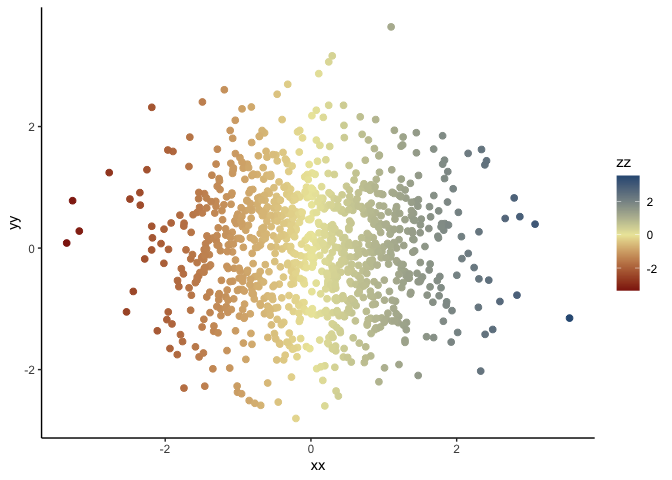
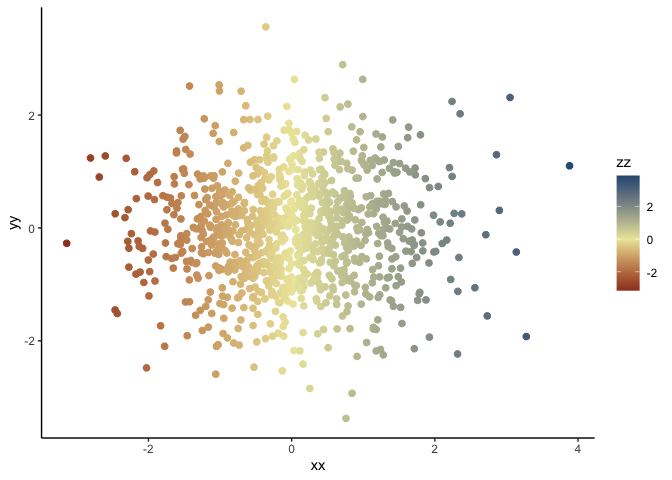
Update README for 0.0.5

diff --git a/README.md b/README.md
@@ -1,11 +1,5 @@
 # Bird Color Palettes (made with 100% REAL birds!)
 
-<figure>
-<img src="https://img.shields.io/badge/devel-0.0.5-red.svg"
-alt="devel 0.0.5" />
-<figcaption aria-hidden="true">devel 0.0.5</figcaption>
-</figure>
-
 birdcolors is a palette generator to spice up your scientific plots (and
 maybe your life) using the diversity of colors observed across the birds
 of the world.
@@ -21,50 +15,48 @@ devtools::install_github("bentonelli/birdcolors")
 
 ## Basic Use
 
-### See what birds are being served today
+### See what birds are being recommended today
 
 ``` r
 library(birdcolors)
 library(ggplot2)
 
-bird_menu()
+#Get recommended birds - visually appealing and colorblind friendly!
+bird_menu("rec")
 ```
 
-    ##                       bird_names ncols
-    ## 1                Scarlet_Tanager     2
-    ## 2                 Indigo_Bunting     2
-    ## 3                   Pine_Warbler     2
-    ## 4                  Varied_Thrush     2
-    ## 5                 Cassin_s_Finch     2
-    ## 6                   Barn_Swallow     2
-    ## 7                 Lazuli_Bunting     3
-    ## 8            Allen_s_Hummingbird     3
-    ## 9          Thick_billed_Euphonia     3
-    ## 10          Yellow_headed_Amazon     3
-    ## 11           Costa_s_Hummingbird     3
-    ## 12       Andean_Cock_of_the_Rock     3
-    ## 13                    Bluethroat     3
-    ## 14                Lovely_Sunbird     3
-    ## 15              Curl_crested_Jay     3
-    ## 16             Northern_Shoveler     3
-    ## 17             Belted_Kingfisher     4
-    ## 18       Gray_crowned_Rosy_finch     4
-    ## 19              Elegant_Euphonia     4
-    ## 20        Black_spotted_Bare_eye     4
-    ## 21              Paradise_Tanager     5
-    ## 22         Hairy_crested_Antbird     5
-    ## 23            European_Goldfinch     6
-    ## 24 Black_backed_Dwarf_Kingfisher     6
-    ## 25                    Blue_Pitta     6
-    ## 26                 Scarlet_Macaw     7
-    ## 27           Scaly_Ground_Roller     8
-    ## 28                     Wood_Duck     9
+    ##                bird_names ncols recommended
+    ## 5          Cassin_s_Finch     2  Continuous
+    ## 42   Ultramarine_Lorikeet     5  Continuous
+    ## 43 Hildebrandt_s_Starling     5  Continuous
+    ## 37  Lilac_breasted_Roller     5    Discrete
+    ## 47     European_Goldfinch     6    Discrete
+    ## 51          Scarlet_Macaw     7    Discrete
+    ## 15    Costa_s_Hummingbird     3   Divergent
+    ## 17         Lovely_Sunbird     3   Divergent
+    ## 44             Bluethroat     5   Divergent
 
-### Plotting with Base R
+``` r
+#For all available birds, use: bird_menu("all")
+```
+
+### Visualize these recommended palettes
+
+``` r
+bird_palette_visualizer(all_or_rec = "rec",pdf_plot = FALSE)
+```
+
+![](create_github_readme_files/figure-markdown_github/unnamed-chunk-3-1.png)
+
+### Plotting discrete colors with base R
 
 ``` r
 # Base R
+
+#Use the bird colors function to load in your favorite bird's colors.
 outp <- bird_colors("Scarlet Macaw")
+
+
 xx <- (1:7)
 yy <- (1:7)
 zz <- (1:7)
@@ -72,7 +64,7 @@ zz <- (1:7)
 plot(xx,yy,col=outp[zz],pch=19,cex=2)
 ```
 
-![](create_github_readme_files/figure-markdown_github/unnamed-chunk-3-1.png)
+![](create_github_readme_files/figure-markdown_github/unnamed-chunk-4-1.png)
 
 ### Plotting with ggplot
 
@@ -80,14 +72,14 @@ plot(xx,yy,col=outp[zz],pch=19,cex=2)
 # ggplot2
 bird_cols <- bird_colors("Lovely Sunbird",reverse=TRUE)
 
-xx <- (1:8)
-yy <- (1:8)
-zz <- (1:8)
+xx <- rnorm(1000,0,1)
+yy <- rnorm(1000,0,1)
+zz <- xx
 
 ggplot() +
-  geom_point(aes(x = xx,y=yy,col=zz),pch=19,cex=5) +
-  scale_color_bird(bird_cols,midpoint=4) +
+  geom_point(aes(x = xx,y=yy,col=zz),pch=19,cex=2) +
+  scale_color_bird(bird_cols,midpoint=0) +
   theme_classic()
 ```
 
-![](create_github_readme_files/figure-markdown_github/unnamed-chunk-4-1.png)
+![](create_github_readme_files/figure-markdown_github/unnamed-chunk-5-1.png)
